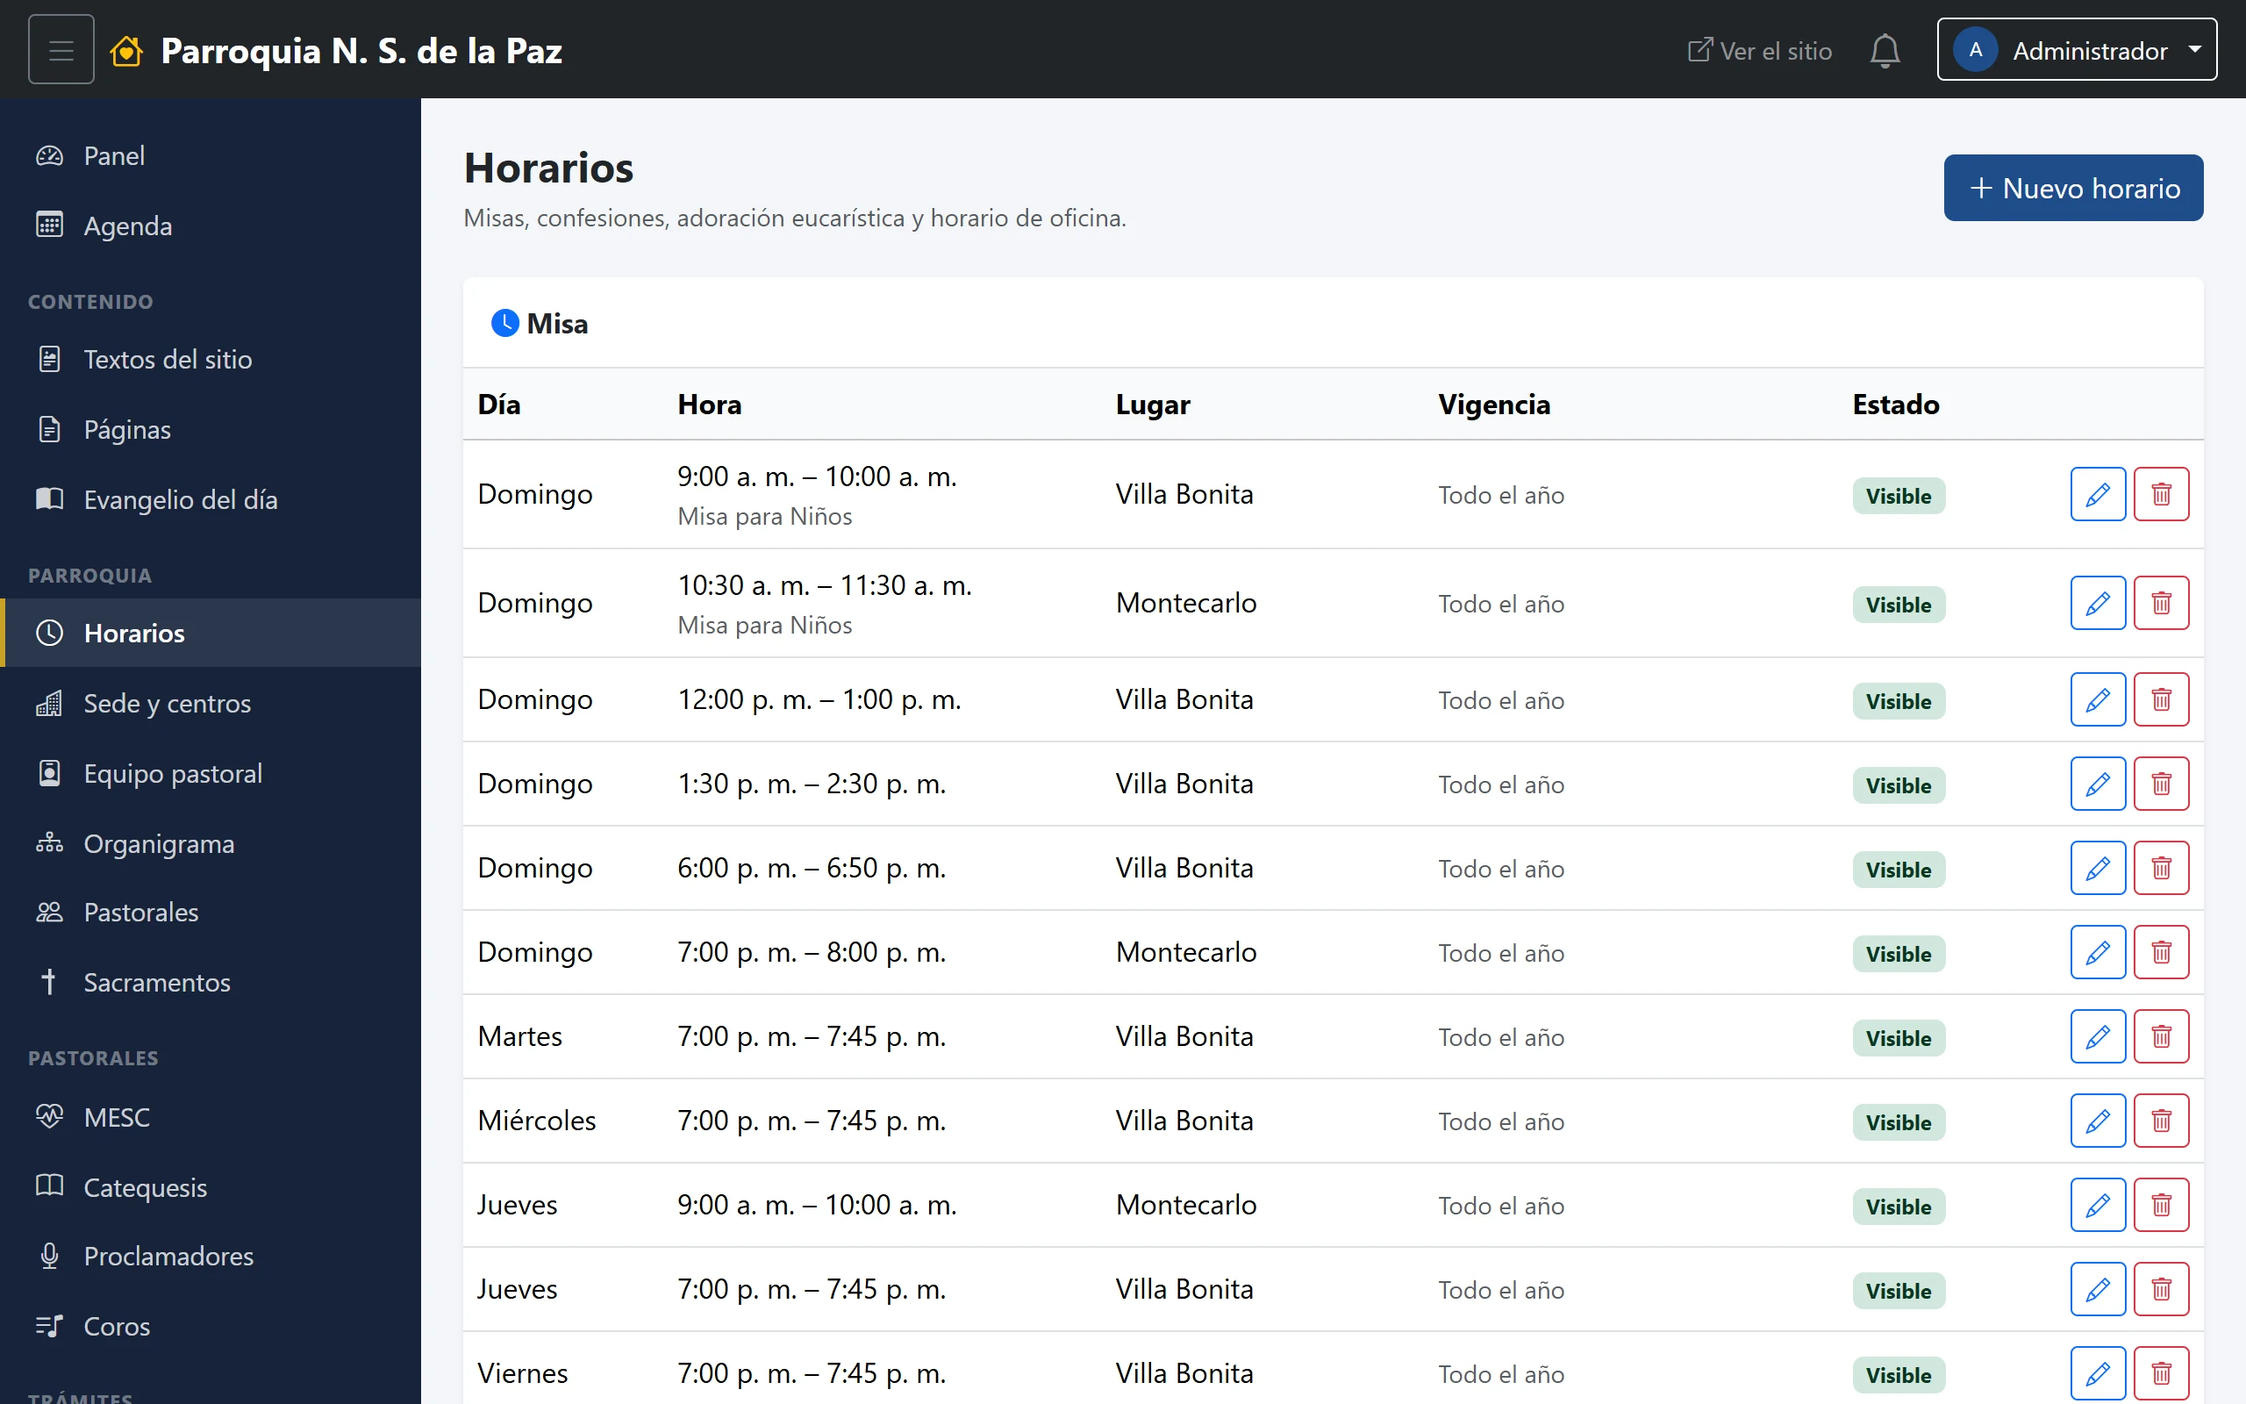
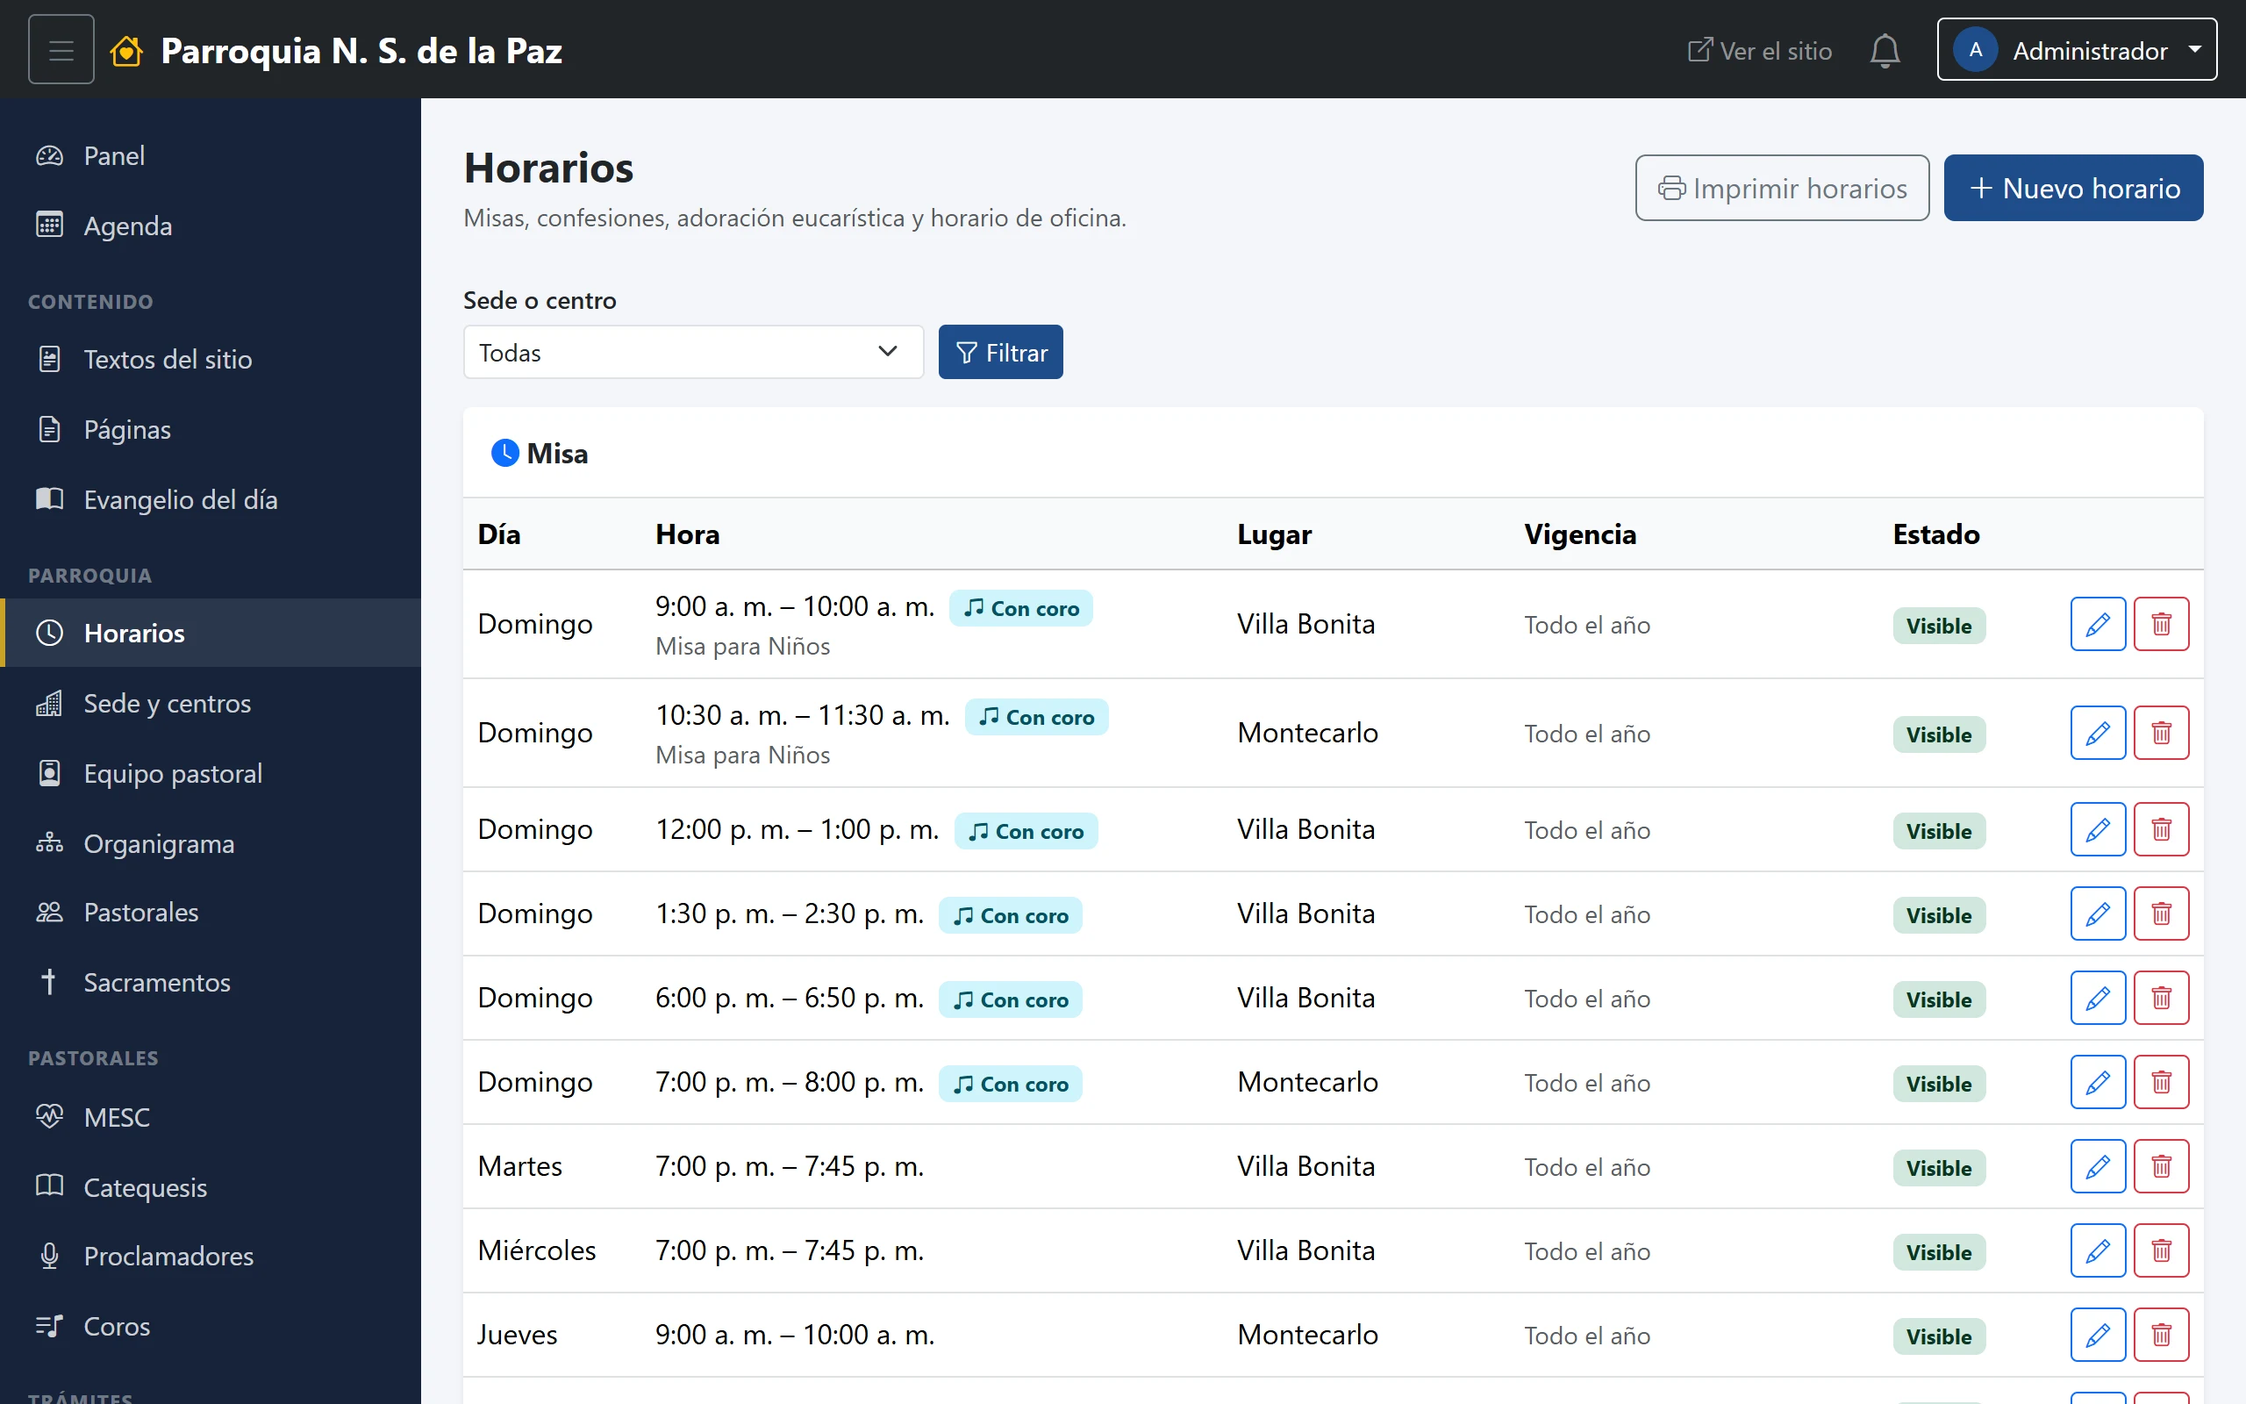
Manual: documenta lo nuevo de Coros, Horarios y las impresiones
Capitulos actualizados con texto y capturas:
- 11 Horarios y sedes: casilla "Tiene coro", filtro por sede, e
  "Imprimir horarios" (horario agrupado por sede, logo y nombre de la
  parroquia una sola vez arriba).
- 12 Equipo pastoral: casilla "Incluir en el directorio telefonico" e
  "Imprimir directorio" (agrupado por pastoral/jerarquia).
- 13 Pastorales: nueva seccion, "El mapa de pastorales para imprimir"
  (arbol indentado por Comision/Dimension), que no estaba documentada.
- 18 Coros: ya no es "un coro por misa de domingo" sino "por horario
  marcado Tiene coro" -- una Adoracion eucaristica tambien puede llevar
  coro.

herramientas/capturas_manual_pantallas.js: tres pantallas nuevas
(horarios-imprimir, personas-directorio-imprimir con el nombre tapado,
pastorales-mapa-imprimir) y el titulo de coros-lista actualizado.

Incluye tambien las capturas de la pantalla de eleccion/cambio de
perfil (capitulo 2) que ya estaban pendientes de una sesion anterior.

diff --git a/herramientas/capturas_manual_pantallas.js b/herramientas/capturas_manual_pantallas.js
@@ -28,6 +28,9 @@
  * ve cualquiera, luego la puerta de entrada al panel y después los módulos.
  */
 
+const fs   = require('fs');
+const path = require('path');
+
 /**
  * Nombres de relleno para las pantallas que listan personas. Se turnan, así
  * que una lista de seis renglones sale con seis nombres distintos y se sigue
@@ -61,6 +64,38 @@ const NOMBRE_EN_LA_BARRA = '.navbar .btn-outline-light span';
 
 /** El «Hola, Fulano» con el que abre la pantalla de inicio. */
 const SALUDO_DEL_PANEL = 'h1.h4.fw-bold';
+
+/**
+ * Credenciales de una cuenta CON perfiles adicionales, para las dos capturas
+ * que documentan ese caso —ver más abajo, "Cuando tienes más de un perfil"—.
+ * Hoy es la única cuenta así en la base; el correo institucional no es un
+ * dato a proteger (el sitio ya publica quién coordina cada pastoral, igual
+ * que con MANUAL_EMAIL), pero la contraseña sí, y por eso sigue el mismo
+ * mecanismo que esa otra: herramientas/.env o variables de entorno.
+ *
+ *     # herramientas/.env
+ *     MANUAL_EMAIL_PERFILES=zulema.alvarez@parroquiansdlp.org
+ *     MANUAL_PASSWORD_PERFILES=la-que-sea
+ *
+ * Este archivo no tiene acceso al `env` que ya leyó capturas_manual.js —son
+ * dos módulos separados a propósito, ver la cabecera de este archivo—, así
+ * que lee el suyo propio, con el mismo formato.
+ */
+function leerEnv() {
+    const archivo = path.join(__dirname, '.env');
+    if (!fs.existsSync(archivo)) { return {}; }
+    const datos = {};
+    for (const linea of fs.readFileSync(archivo, 'utf8').split(/\r?\n/)) {
+        const m = linea.match(/^\s*([A-Z_][A-Z0-9_]*)\s*=\s*(.*)$/i);
+        if (m) { datos[m[1]] = m[2].trim().replace(/^["']|["']$/g, ''); }
+    }
+    return datos;
+}
+const envPerfiles = leerEnv();
+const EMAIL_PERFILES    = process.env.MANUAL_EMAIL_PERFILES
+    || envPerfiles.MANUAL_EMAIL_PERFILES    || 'zulema.alvarez@parroquiansdlp.org';
+const PASSWORD_PERFILES = process.env.MANUAL_PASSWORD_PERFILES
+    || envPerfiles.MANUAL_PASSWORD_PERFILES || '';
 
 /**
  * Entra al panel como otra cuenta, por «Usar como…», para fotografiar lo que
@@ -217,6 +252,81 @@ module.exports = [
                 page.click('button[type="submit"]'),
             ]);
             await page.waitForSelector('.alert-danger');
+        },
+    },
+
+    // ------------------------------------------------------------
+    // Cuando tienes más de un perfil
+    // ------------------------------------------------------------
+    // Estas dos necesitan una cuenta CON perfiles adicionales —ver
+    // EMAIL_PERFILES/PASSWORD_PERFILES arriba—, que no es la de
+    // MANUAL_EMAIL/MANUAL_PASSWORD (el administrador, que no tiene
+    // ninguno). Van marcadas sesion:'publico' aunque la segunda ya esté
+    // "adentro": es la forma de que el motor las corra ANTES de entrar()
+    // —ver capturas_manual.js—, encadenadas entre sí con la MISMA sesión, sin
+    // volver a escribir la contraseña ni dejarla abierta para las capturas
+    // que siguen, que sí esperan la sesión del administrador.
+    {
+        id: 'acceso-elegir-perfil',
+        titulo: 'La pantalla que pregunta con cuál perfil entras',
+        url: '/admin/auth/login',
+        sesion: 'publico',
+        espera: '#email',
+        antes: async (page) => {
+            if (!PASSWORD_PERFILES) {
+                throw new Error(
+                    'Falta MANUAL_PASSWORD_PERFILES en herramientas/.env: la contraseña de '
+                    + 'una cuenta con perfiles adicionales, para esta captura y la siguiente.'
+                );
+            }
+            await page.type('#email', EMAIL_PERFILES);
+            await page.type('#password', PASSWORD_PERFILES);
+            await Promise.all([
+                page.waitForNavigation({ waitUntil: 'networkidle2' }),
+                page.click('button[type="submit"]'),
+            ]);
+            await page.waitForSelector('input[name="perfil_id"]');
+        },
+        // El único dato personal de esta pantalla es su nombre, arriba del todo.
+        tapar: [['.caja-acceso h1', EJEMPLOS_NOMBRES[0]]],
+        despues: async (page) => {
+            // Sigue con el perfil marcado por defecto —el principal—, para
+            // que la siguiente captura, ya adentro, ofrezca el cambio AL
+            // perfil adicional en vez de mostrar la vuelta.
+            await Promise.all([
+                page.waitForNavigation({ waitUntil: 'networkidle2' }),
+                page.click('button[type="submit"]'),
+            ]);
+        },
+    },
+    {
+        id: 'acceso-cambiar-perfil',
+        titulo: 'El modal para cambiar de perfil sin cerrar sesión',
+        url: '/admin/panel',
+        sesion: 'publico',
+        espera: '.navbar .btn-outline-light',
+        tapar: TAPAR_INICIO.concat([
+            [NOMBRE_EN_LA_BARRA, EJEMPLOS_NOMBRES[0]],
+            [SALUDO_DEL_PANEL,   'Hola, ' + EJEMPLOS_NOMBRES[0]],
+        ]),
+        fotos: FOTOS_INICIO.concat(['.navbar img']),
+        // El modal se dibuja fuera de la barra, así que la captura es de la
+        // ventana entera y no un recorte —igual que acceso-menu-usuario—.
+        antes: async (page) => {
+            await page.click('.navbar .btn-outline-light.dropdown-toggle');
+            await page.waitForSelector('.dropdown-menu.show');
+            await page.click('[data-bs-target="#modalCambiarPerfil"]');
+            await page.waitForSelector('#modalCambiarPerfil.show');
+        },
+        despues: async (page) => {
+            // Cierra esta sesión antes de que el resto del catálogo entre
+            // como el administrador —ver entrar() en capturas_manual.js—.
+            await Promise.all([
+                page.waitForNavigation({ waitUntil: 'networkidle2' }),
+                page.evaluate(() => {
+                    document.querySelector('form[action*="logout"] button[type="submit"]').click();
+                }),
+            ]);
         },
     },
 
@@ -477,6 +587,15 @@ module.exports = [
         completa: true,
     },
     {
+        id: 'horarios-imprimir',
+        titulo: 'El horario para imprimir, agrupado por sede',
+        url: '/admin/horarios/horarios_imprimir',
+        // Página aparte, sin el menú lateral del panel: no hay '.sidebar-link'
+        // que esperar, se espera su propio encabezado.
+        espera: '.hi-encabezado',
+        completa: true,
+    },
+    {
         id: 'centros-lista',
         titulo: 'Las sedes y los centros',
         url: '/admin/centros',
@@ -500,6 +619,17 @@ module.exports = [
         completa: true,
     },
     {
+        id: 'personas-directorio-imprimir',
+        titulo: 'El directorio telefónico para imprimir',
+        url: '/admin/personas/directorio_imprimir',
+        espera: '.di-encabezado',
+        completa: true,
+        // El teléfono de cada quien lo tapa ya la regla general (encuentra
+        // cualquier número de diez dígitos por su forma); el nombre no tiene
+        // una forma reconocible, así que aquí sí hace falta decir dónde está.
+        tapar: [['.di-nombre', EJEMPLOS_NOMBRES]],
+    },
+    {
         id: 'organigrama-lista',
         titulo: 'El organigrama en el panel',
         url: '/admin/organigrama',
@@ -516,6 +646,15 @@ module.exports = [
         titulo: 'El panel básico de una pastoral',
         url: '/admin/pastorales/panel?id=18',
         espera: '.sidebar-link',
+    },
+    {
+        id: 'pastorales-mapa-imprimir',
+        titulo: 'El mapa de pastorales para imprimir',
+        url: '/admin/pastorales/mapa_imprimir',
+        espera: '.mp-arbol, .mp-vacio',
+        completa: true,
+        // Quién coordina cada pastoral ya lo publica el sitio; no hace falta
+        // tapar ningún nombre aquí.
     },
     {
         id: 'sacramentos-lista',
@@ -585,7 +724,7 @@ module.exports = [
     },
     {
         id: 'coros-lista',
-        titulo: 'Coros — Un coro por misa',
+        titulo: 'Coros — Horarios con coro',
         url: '/admin/coros',
         espera: '.sidebar-link',
     },

diff --git a/docs/manual/18-coros.md b/docs/manual/18-coros.md
@@ -1,27 +1,28 @@
 # 18. Coros
 
-La pastoral de música, organizada de una forma propia: **un coro por misa con
-coro**.
+La pastoral de música, organizada de una forma propia: **un coro por horario
+marcado "Tiene coro"**.
 
 **Menú:** Pastorales → Coros.
 
 ## Los coros
 
-![Coros — Un coro por misa](img/coros-lista.webp)
+![Coros — Horarios con coro](img/coros-lista.webp)
 
-La lista no se captura: **sale de los horarios**. Toda misa marcada con la
+La lista no se captura: **sale de los horarios**. Todo horario marcado con la
 casilla **"Tiene coro"** en Parroquia → Horarios aparece aquí como un renglón,
-con su día, su hora y su sede, y a cada una se le asigna:
+con su día, su hora y su sede —no hace falta que sea una misa: una Adoración
+eucarística también puede llevar coro—, y a cada uno se le asigna:
 
 - Un **encargado**, elegido del equipo pastoral. Mientras no haya, el renglón
   dice *Sin encargado*.
-- Sus **integrantes**, con el número de quienes cantan en esa misa y un **+**
-  para agregar a alguien.
+- Sus **integrantes**, con el número de quienes cantan ahí y un **+** para
+  agregar a alguien.
 
-Eso tiene una consecuencia práctica: **si una misa no aparece aquí, revisa su
-casilla "Tiene coro" en Horarios.** Se marca ahí y el coro aparece solo — ya no
-se escribe "con coro" a mano en la Nota del horario, que era texto libre sin
-forma de filtrar por eso.
+Eso tiene una consecuencia práctica: **si un horario no aparece aquí, revisa
+su casilla "Tiene coro" en Horarios.** Se marca ahí y el coro aparece solo —
+ya no se escribe "con coro" a mano en la Nota del horario, que era texto libre
+sin forma de filtrar por eso.
 
 ## Integrantes
 

diff --git a/docs/manual/02-entrar-al-panel.md b/docs/manual/02-entrar-al-panel.md
@@ -76,8 +76,10 @@ contraseña aparece una pantalla intermedia que pregunta **con cuál quieres
 entrar**. Se elige uno y se continúa. Lo que puedes hacer durante esa sesión
 es lo del perfil que elegiste, ni más ni menos.
 
+![La pantalla que pregunta con cuál perfil entras](img/acceso-elegir-perfil.webp)
+
 No hay que cerrar sesión para cambiarte: en el menú de tu nombre, arriba a la
-derecha, está **Cambiar de perfil**.
+derecha, está **Cambiar de perfil**. Más abajo, en «Tu menú», se ve cómo.
 
 El capítulo 4 explica por qué existe esto y cuándo conviene pedirlo.
 
@@ -109,6 +111,19 @@ falta saber cuando algo no aparece donde lo esperabas. Debajo, según tu cuenta:
 - **Usar como…**, solo para el administrador. Sirve para ver el panel con los
   ojos de otra persona; se explica en el capítulo 4.
 - **Cerrar sesión**, siempre.
+
+### Cambiar de perfil
+
+Quien tiene perfiles adicionales ve esa opción en el menú. Al elegirla se
+abre un modal con las opciones disponibles —tu rol principal y cada perfil
+adicional, salvo el que ya está activo— y un botón **Usar** junto a cada una.
+
+![El modal para cambiar de perfil](img/acceso-cambiar-perfil.webp)
+
+El cambio es inmediato y no vuelve a pedir contraseña: la sesión ya demostró
+quién eres, así que solo se actualiza el rol y el alcance con el que
+trabajas, sin tocar lo demás. Queda en la bitácora, igual que un inicio de
+sesión.
 
 ## Cerrar sesión
 

diff --git a/docs/manual/13-pastorales.md b/docs/manual/13-pastorales.md
@@ -20,6 +20,18 @@ responsable; lo que la hace comisión es que otras la tienen marcada como su
 quien coordina una comisión recibe también lo que publican hacia dentro las
 pastorales que agrupa.
 
+### El mapa de pastorales para imprimir
+
+![El mapa de pastorales para imprimir](img/pastorales-mapa-imprimir.webp)
+
+El botón **"Imprimir mapa"** del listado abre en una pestaña aparte un árbol
+de la jerarquía completa, listo para imprimir o guardar como PDF: cada
+Comisión encabeza su bloque y, indentadas debajo con una guía vertical, sus
+dimensiones —Litúrgica con Coros, MESC, Proclamadores…—, cada una con quién la
+coordina al lado. No es un árbol de cajitas conectadas por líneas como el del
+organigrama: con Comisiones de hasta seis hijas, una hoja no alcanzaría a lo
+ancho.
+
 ## La ficha
 
 Se abre con **Editar**. Es la que alimenta la página pública de la pastoral.

diff --git a/docs/manual/README.md b/docs/manual/README.md
@@ -88,6 +88,18 @@ MANUAL_EMAIL=admin@parroquiansdlp.org
 MANUAL_PASSWORD=…
 ```
 
+Dos capturas del capítulo 2 —la pantalla que pregunta con cuál perfil entras
+y el modal para cambiarlo— necesitan además una cuenta CON perfiles
+adicionales, que no es la del administrador. Van en el mismo archivo:
+
+```
+MANUAL_EMAIL_PERFILES=zulema.alvarez@parroquiansdlp.org
+MANUAL_PASSWORD_PERFILES=…
+```
+
+Sin esas dos líneas, esas dos capturas fallan con un mensaje explicando qué
+falta; el resto del catálogo no las necesita y se genera igual.
+
 Las capturas se guardan en WebP, que pesa la quinta parte que un PNG y se ve
 igual; al armar el Word se convierten solas, porque Word no lee ese formato.
 

diff --git a/docs/manual/11-horarios-y-sedes.md b/docs/manual/11-horarios-y-sedes.md
@@ -38,6 +38,8 @@ de catálogos de la parroquia.
 
 ### Imprimir los horarios
 
+![El horario para imprimir, agrupado por sede](img/horarios-imprimir.webp)
+
 El botón **"Imprimir horarios"** abre en una pestaña aparte una hoja lista
 para imprimir o guardar como PDF: el logo y el nombre de la parroquia una sola
 vez arriba, y debajo, una tras otra, cada sede con sus horarios vigentes hoy

diff --git a/docs/manual/12-equipo-pastoral-y-organigrama.md b/docs/manual/12-equipo-pastoral-y-organigrama.md
@@ -68,6 +68,8 @@ dice.
 
 ## El directorio telefónico
 
+![El directorio telefónico para imprimir](img/personas-directorio-imprimir.webp)
+
 Desde el listado, el botón **"Imprimir directorio"** abre en una pestaña
 aparte una hoja lista para imprimir o guardar como PDF con solo a quienes se
 marcó con la casilla "Incluir en el directorio telefónico" de su ficha, con su
